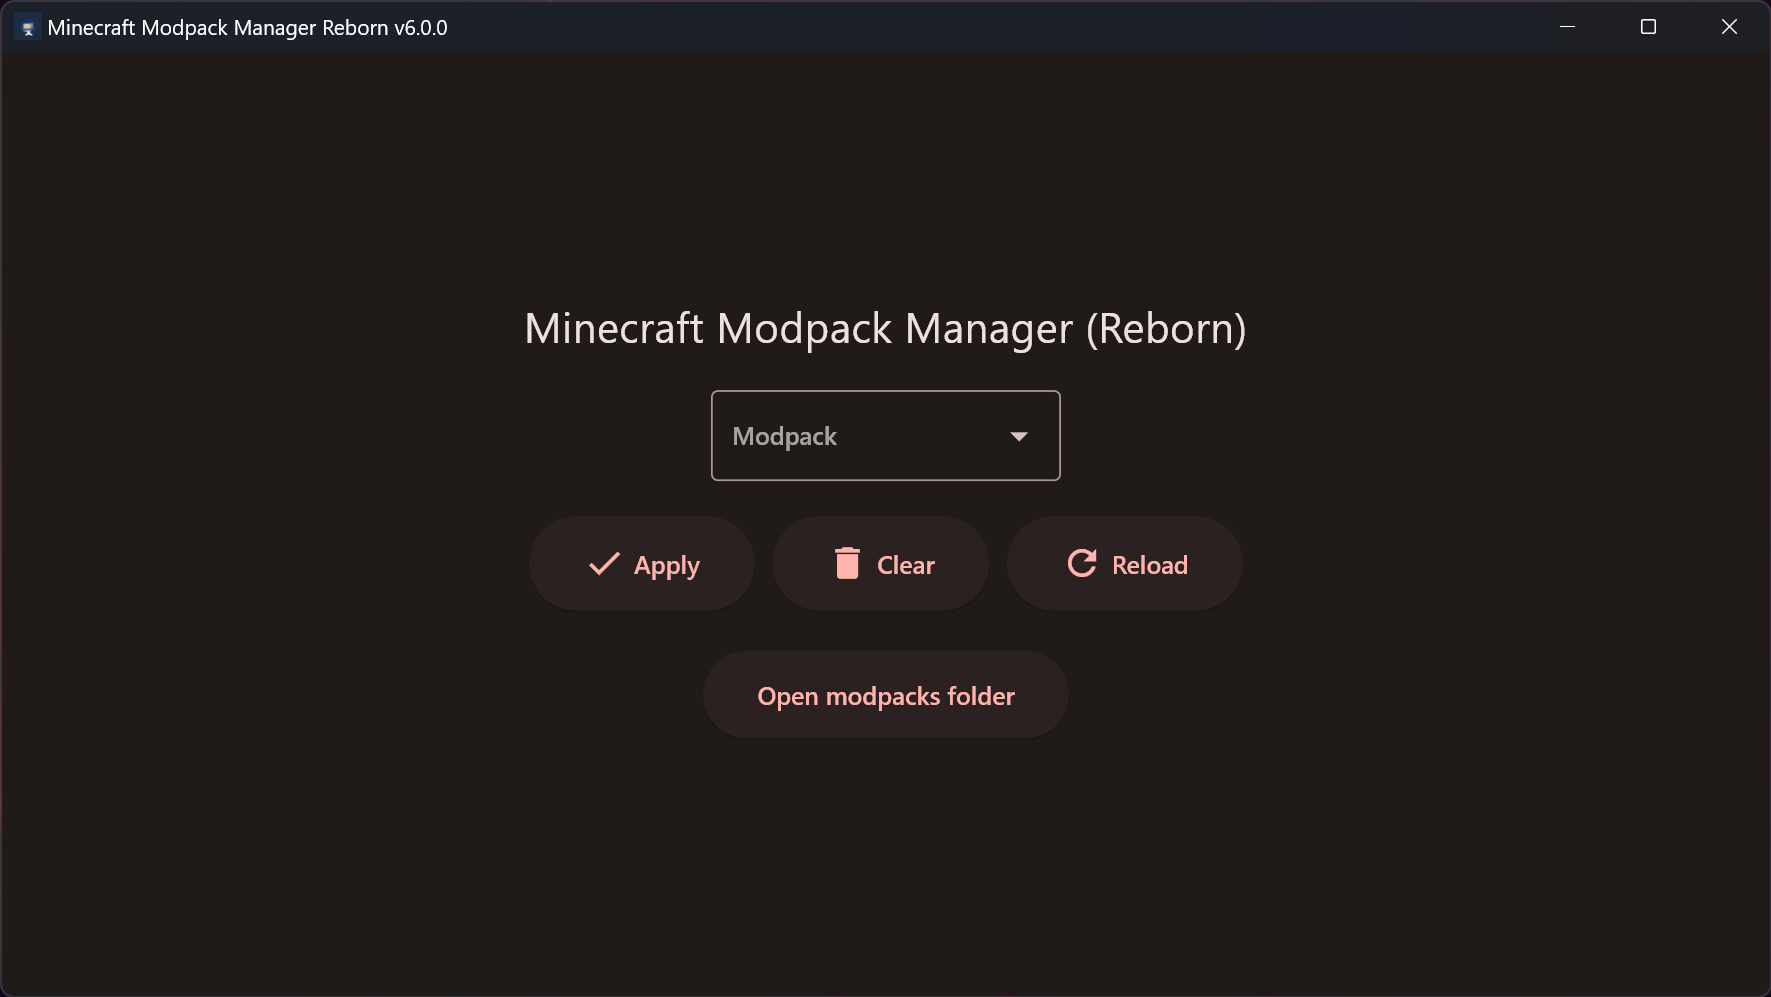
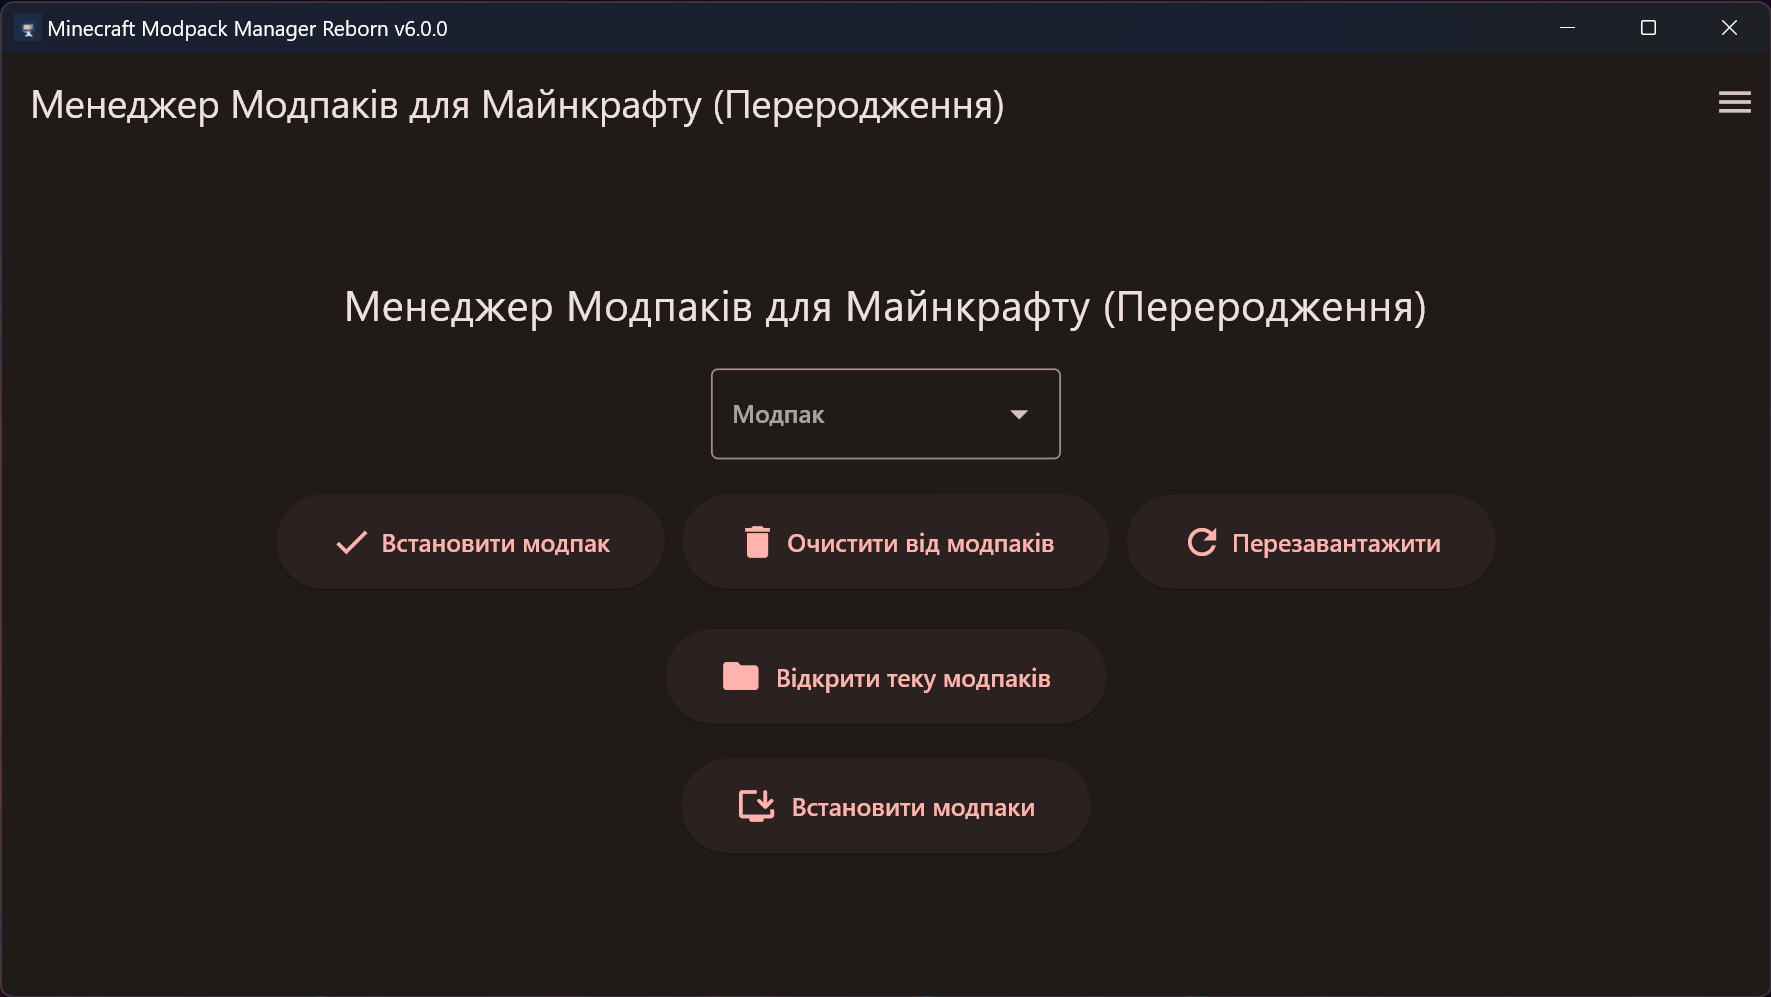
Make everything ready for an RC

diff --git a/lib/main.dart b/lib/main.dart
@@ -2,9 +2,11 @@ import 'package:dynamic_color/dynamic_color.dart';
 import 'package:flutter/material.dart';
 import 'package:get/get.dart';
 import 'package:flutter_gen/gen_l10n/app_localizations.dart';
+import 'package:get_storage/get_storage.dart';
 import 'package:mcmodpackmanager_reborn/modpack_installer/install_modpack_button.dart';
 import 'package:mcmodpackmanager_reborn/selector.dart';
 import 'package:mcmodpackmanager_reborn/open_modpacks_folder.dart';
+import 'package:mcmodpackmanager_reborn/settings.dart';
 import 'package:path_provider/path_provider.dart';
 import 'package:window_manager/window_manager.dart';
 import 'package:package_info_plus/package_info_plus.dart';
@@ -12,6 +14,7 @@ import 'package:package_info_plus/package_info_plus.dart';
 void main() async {
   WidgetsFlutterBinding.ensureInitialized();
   await windowManager.ensureInitialized();
+  await GetStorage.init();
   PackageInfo packageInfo = await PackageInfo.fromPlatform();
   WindowOptions windowOptions = WindowOptions(
       size: const Size(1024, 576),
@@ -67,13 +70,39 @@ class ThemeProvider extends StatefulWidget {
 
 class _ThemeProviderState extends State<ThemeProvider> {
   bool shouldUseMaterial3 = true;
+
+  late String locale;
+
+  @override
+  void initState() {
+    super.initState();
+    setLocale(GetStorage().read("locale") ?? "en");
+    debugPrint("Initiated $locale");
+  }
+
+  void setLocale(String value) {
+    for (var loc in AppLocalizations.supportedLocales) {
+      if (loc.languageCode == value) {
+        GetStorage().write("locale", value);
+        setState(() {
+          locale = value;
+          debugPrint("Locale set");
+        });
+      }
+    }
+  }
+
   @override
   Widget build(BuildContext context) {
     return GetMaterialApp(
       debugShowCheckedModeBanner: false,
       localizationsDelegates: AppLocalizations.localizationsDelegates,
       supportedLocales: AppLocalizations.supportedLocales,
-      home: const MinecraftModpackManager(),
+      locale: Locale.fromSubtags(languageCode: locale),
+      defaultTransition: Transition.rightToLeft,
+      home: MinecraftModpackManager(
+        setLocale: setLocale,
+      ),
       darkTheme: ThemeData.from(
         useMaterial3: shouldUseMaterial3,
         colorScheme: (widget.darkTheme ?? const ColorScheme.dark()),
@@ -87,7 +116,9 @@ class _ThemeProviderState extends State<ThemeProvider> {
 }
 
 class MinecraftModpackManager extends StatefulWidget {
-  const MinecraftModpackManager({super.key});
+  const MinecraftModpackManager({super.key, required this.setLocale});
+
+  final Function(String locale) setLocale;
 
   @override
   State<MinecraftModpackManager> createState() =>
@@ -98,6 +129,13 @@ class _MinecraftModpackManagerState extends State<MinecraftModpackManager> {
   @override
   Widget build(BuildContext context) {
     return Scaffold(
+      appBar: AppBar(
+        title: Text(AppLocalizations.of(context)!.productName),
+      ),
+      endDrawer: Drawer(
+          child: Settings(
+        setLocale: widget.setLocale,
+      )),
       body: Column(
         mainAxisAlignment: MainAxisAlignment.center,
         crossAxisAlignment: CrossAxisAlignment.center,

diff --git a/lib/settings.dart b/lib/settings.dart
@@ -1,0 +1,50 @@
+import 'package:flutter_gen/gen_l10n/app_localizations.dart';
+import 'package:flutter/material.dart';
+
+class Settings extends StatefulWidget {
+  const Settings({super.key, required this.setLocale});
+
+  final Function(String locale) setLocale;
+
+  @override
+  State<Settings> createState() => _SettingsState();
+}
+
+class _SettingsState extends State<Settings> {
+  late TextEditingController _controller;
+
+  @override
+  void dispose() {
+    super.dispose();
+  }
+
+  @override
+  void initState() {
+    super.initState();
+    _controller = TextEditingController();
+  }
+
+  @override
+  Widget build(BuildContext context) {
+    return Container(
+      margin: const EdgeInsets.symmetric(vertical: 12, horizontal: 15),
+      child: ListView(
+        children: [
+          DrawerHeader(child: Text(AppLocalizations.of(context)!.settings)),
+          DropdownMenu(
+            controller: _controller,
+            label: Text(AppLocalizations.of(context)!.language),
+            dropdownMenuEntries: const [
+              DropdownMenuEntry(value: "en", label: "English"),
+              DropdownMenuEntry(value: "uk", label: "Українська")
+            ],
+            onSelected: (value) async {
+              debugPrint("Selected value: ${value ?? "en"}");
+              widget.setLocale(value ?? "en");
+            },
+          ),
+        ],
+      ),
+    );
+  }
+}

diff --git a/README.md b/README.md
@@ -5,10 +5,9 @@
 * Applying modpacks
 * Clearing modpacks
 * Reloading modpacks in the list
-* Opening modpacks folder on windows (I'm not sure about linux and macOS)
-
-## TODO:
+* Opening modpacks folder
 * Installing modpacks using .mcmodpackref
 
-![Screenshot](https://github.com/mrquantumoff/mcmodpackmanager_reborn/raw/master/Screenshots/Screenshot%202023-02-03%20112742.png)
-![Screenshot](https://github.com/mrquantumoff/mcmodpackmanager_reborn/raw/master/Screenshots/Screenshot%202023-02-03%20112802.png)
+# Will be available on Flathub and Microsoft Store soon
+
+## Warning: Some features may not work properly on macOS, since I don't have a Mac and I can't test the app on it. If you have one and you know how to code, please submit a pr.
